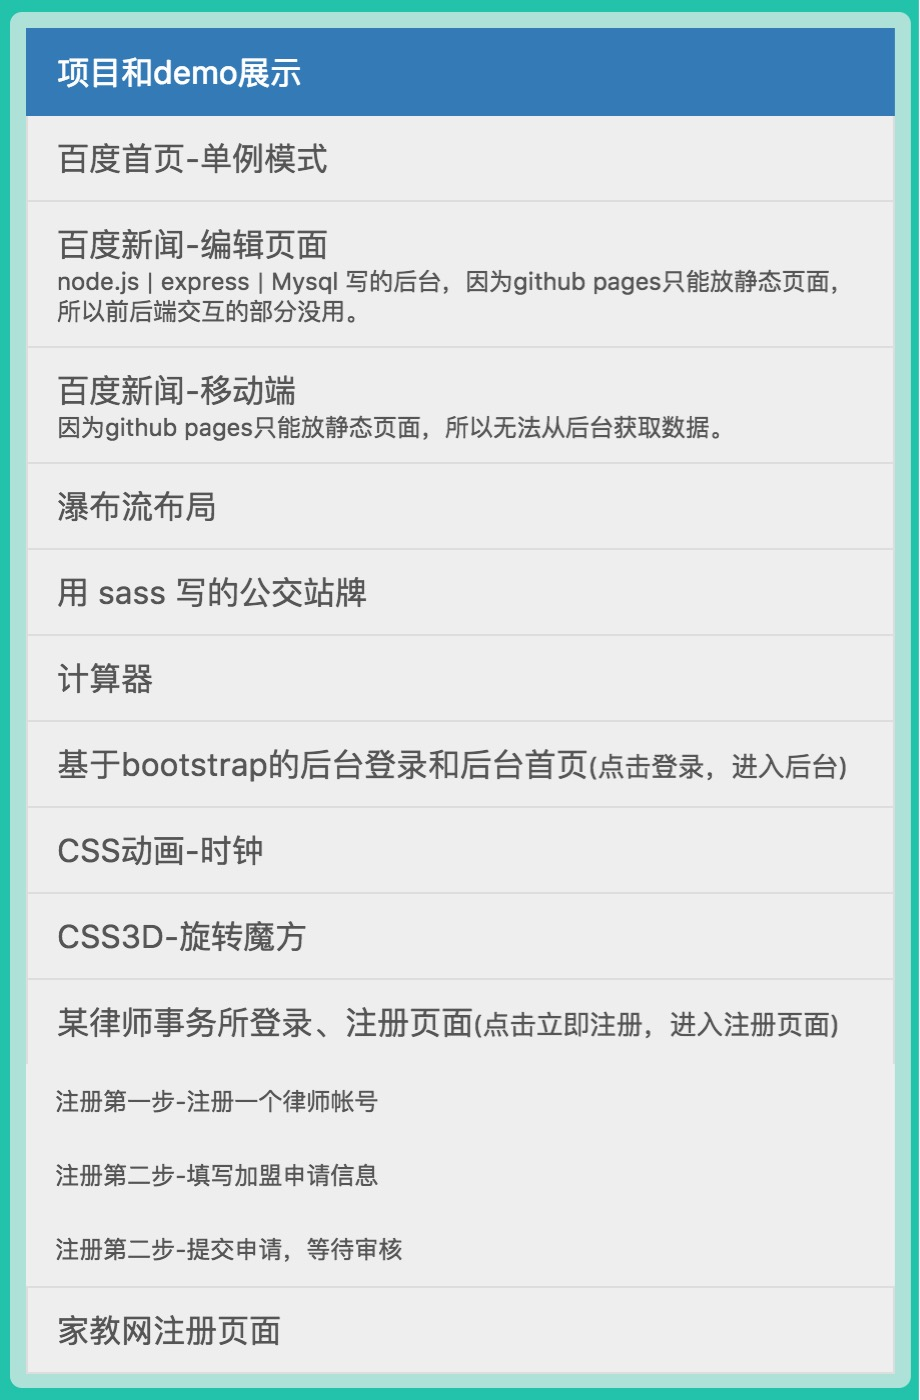
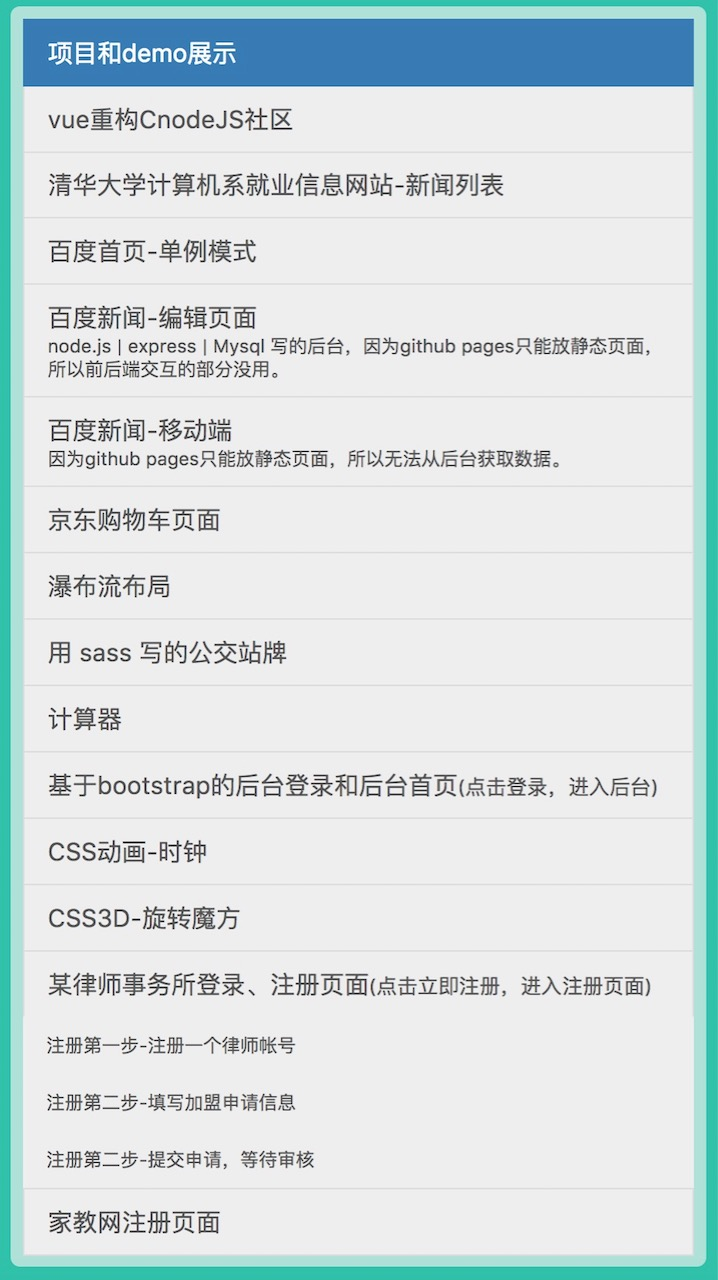
list-update

diff --git a/index.html b/index.html
@@ -85,6 +85,8 @@
       <a href="" class="list-group-item active">
         项目和demo展示
       </a>
+      <a href="https://yzygithub.github.io/CnodeJS-Vue-dist/#/" class="list-group-item" target="_blank">vue重构CnodeJS社区</a>
+      <a href="https://yzygithub.github.io/news-list/" class="list-group-item" target="_blank">清华大学计算机系就业信息网站-新闻列表</a>
       <a href="https://yzygithub.github.io/project-list/baiduIndex/baiduHomePage.html" class="list-group-item" target="_blank">百度首页-单例模式</a>
       <a href="https://yzygithub.github.io/project-list/nodebaiduNews/public/admin.html" class="list-group-item" target="_blank">百度新闻-编辑页面<p class="list-group-item-text">node.js | express | Mysql 写的后台，因为github pages只能放静态页面，所以前后端交互的部分没用。</p></a>
       <a href="https://yzygithub.github.io/project-list/nodebaiduNews/public/index.html" class="list-group-item" target="_blank">百度新闻-移动端<p class="list-group-item-text">因为github pages只能放静态页面，所以无法从后台获取数据。</p></a>
